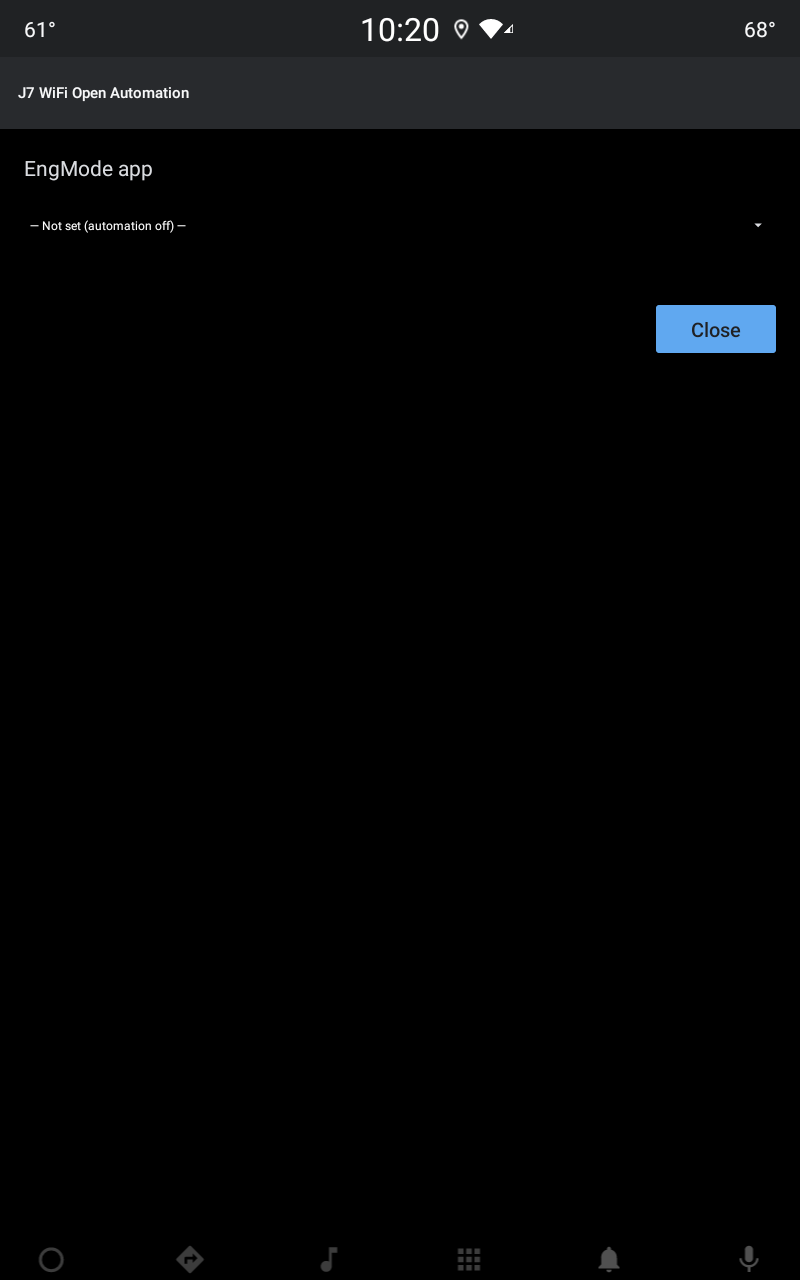
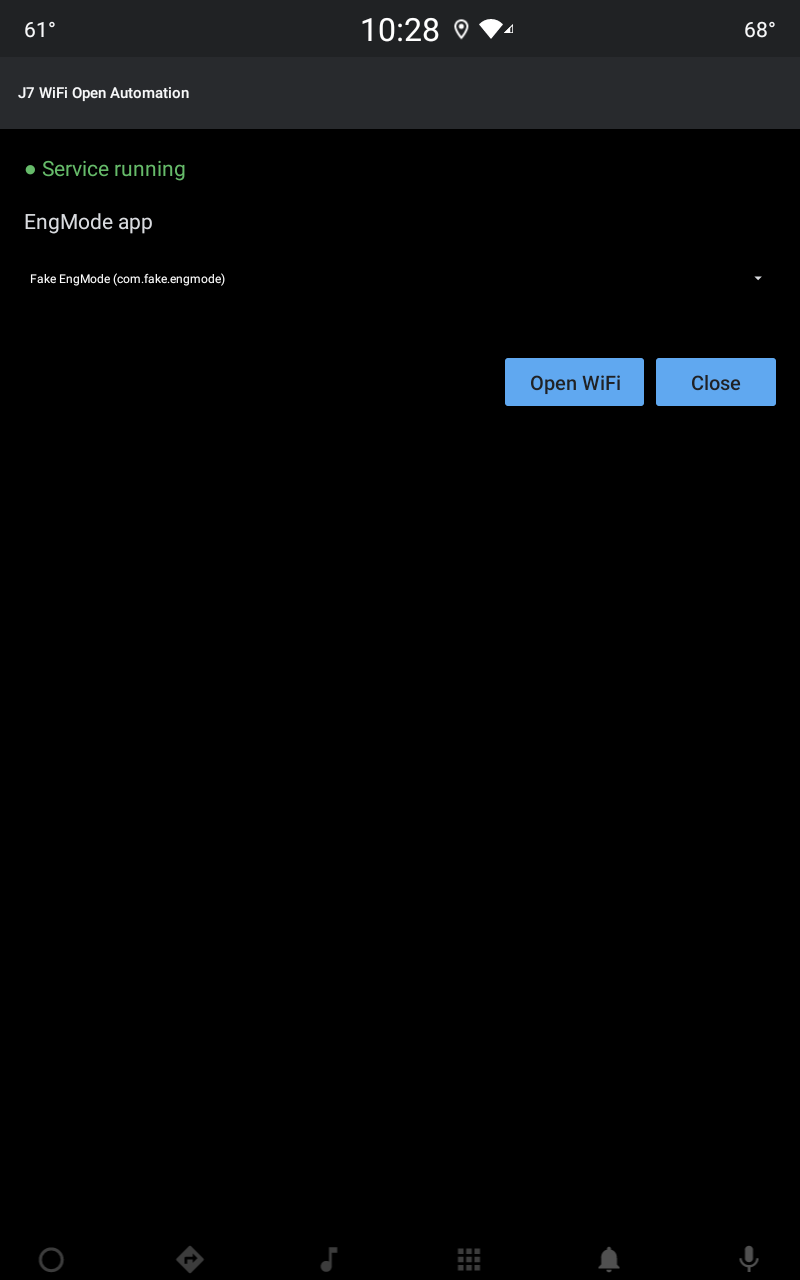
Watch AA/CarPlay packages, add test and service controls
- Trigger on com.google.android.projection.sink and
  com.desaysv.vehicle.carplayapp directly, at most once per 10 minutes.
- Open EngMode even without a launcher icon (first openable activity),
  and report launch failures and timeouts as toasts instead of crashing.
- Settings page: service status, Start service (re-enables the service,
  including after a force-stop, once WRITE_SECURE_SETTINGS is granted),
  and an Open WiFi button that runs the automation visibly.

Changed region(s): [[0.625, 0.2188, 0.9688, 0.3438], [0.0312, 0.125, 0.25, 0.1875], [0.5312, 0.0, 0.5625, 0.0312]]

diff --git a/app/src/main/java/com/carlosrpg/wifiopen/WifiOpenService.kt b/app/src/main/java/com/carlosrpg/wifiopen/WifiOpenService.kt
@@ -2,6 +2,7 @@ package com.carlosrpg.wifiopen
 
 import android.accessibilityservice.AccessibilityService
 import android.content.Intent
+import android.content.pm.PackageManager
 import android.graphics.Color
 import android.graphics.PixelFormat
 import android.os.Handler
@@ -13,6 +14,7 @@ import android.view.View
 import android.view.WindowManager
 import android.widget.LinearLayout
 import android.widget.TextView
+import android.widget.Toast
 import android.view.accessibility.AccessibilityEvent
 import android.view.accessibility.AccessibilityNodeInfo
 
@@ -35,6 +37,11 @@ class WifiOpenService : AccessibilityService() {
 
         /** Cover the screen while EngMode is driven. ACTION_CLICK works on views under an overlay. */
         private const val HIDE_WITH_OVERLAY = true
+
+        /** The running service, for SettingsActivity's test button. Null when the service is not enabled. */
+        @Volatile
+        var instance: WifiOpenService? = null
+            private set
     }
 
     private enum class Step { IDLE, CLICK_WIFI, CLICK_OPEN, CLOSE }
@@ -59,28 +66,44 @@ class WifiOpenService : AccessibilityService() {
             Log.w(TAG, "Projection app in front but EngMode is not set: open the app to pick it")
             return
         }
-        if (trigger.onProjectionWindow(SystemClock.elapsedRealtime())) start(engMode)
+        if (trigger.onProjectionWindow(SystemClock.elapsedRealtime())) start(engMode, hidden = HIDE_WITH_OVERLAY)
+    }
+
+    override fun onServiceConnected() {
+        instance = this
     }
 
     override fun onInterrupt() {}
 
     override fun onDestroy() {
+        instance = null
         handler.removeCallbacksAndMessages(null)
         hideOverlay()
         super.onDestroy()
     }
 
-    private fun start(engMode: String) {
-        val launch = packageManager.getLaunchIntentForPackage(engMode)
-        if (launch == null) {
-            Log.e(TAG, "EngMode ($engMode) not installed or has no launcher activity")
-            return
+    /** Test button in SettingsActivity: runs immediately, ignores the cooldown, and leaves EngMode visible. */
+    fun runNow() {
+        val engMode = getSharedPreferences(PREFS, MODE_PRIVATE).getString(KEY_ENGMODE, null)
+        when {
+            engMode == null -> fail("Pick the EngMode app first")
+            step != Step.IDLE -> fail("Automation is already running")
+            else -> start(engMode, hidden = false)
         }
+    }
+
+    private fun start(engMode: String, hidden: Boolean) {
+        val launch = launchIntentFor(engMode) ?: return fail("No activity of $engMode can be opened by other apps")
+        Log.i(TAG, "Running EngMode WiFi automation with ${launch.component}")
         engModePkg = engMode
-        Log.i(TAG, "Projection connected, running EngMode WiFi automation")
-        showOverlay()
-        // CLEAR_TASK so EngMode always starts on its main screen.
-        startActivity(launch.addFlags(Intent.FLAG_ACTIVITY_NEW_TASK or Intent.FLAG_ACTIVITY_CLEAR_TASK))
+        if (hidden) showOverlay()
+        try {
+            // CLEAR_TASK so EngMode always starts on its main screen.
+            startActivity(launch.addFlags(Intent.FLAG_ACTIVITY_NEW_TASK or Intent.FLAG_ACTIVITY_CLEAR_TASK))
+        } catch (e: Exception) { // SecurityException (protected activity) or ActivityNotFoundException
+            hideOverlay()
+            return fail("Android refused to open ${launch.component?.className}: ${e.message}")
+        }
         step = Step.CLICK_WIFI
         deadline = SystemClock.uptimeMillis() + TIMEOUT_MS
         closeAttempts = 0
@@ -89,7 +112,7 @@ class WifiOpenService : AccessibilityService() {
 
     private fun tick() {
         if (step != Step.CLOSE && SystemClock.uptimeMillis() > deadline) {
-            Log.w(TAG, "Timed out at $step")
+            fail(if (engModeRoot() == null) "EngMode never appeared on screen" else "Timed out at $step: button not found")
             step = Step.CLOSE
         }
         val root = engModeRoot()
@@ -110,6 +133,23 @@ class WifiOpenService : AccessibilityService() {
             }
         }
         handler.postDelayed(::tick, POLL_MS)
+    }
+
+    /** Launcher intent, or for hidden engineering apps (no launcher icon) their first openable activity. */
+    private fun launchIntentFor(pkg: String): Intent? {
+        packageManager.getLaunchIntentForPackage(pkg)?.let { return it }
+        val activities = try {
+            packageManager.getPackageInfo(pkg, PackageManager.GET_ACTIVITIES).activities
+        } catch (e: PackageManager.NameNotFoundException) {
+            null
+        }
+        val activity = activities?.firstOrNull { it.exported && it.enabled && it.permission == null } ?: return null
+        return Intent().setClassName(pkg, activity.name)
+    }
+
+    private fun fail(message: String) {
+        Log.e(TAG, message)
+        Toast.makeText(this, message, Toast.LENGTH_LONG).show()
     }
 
     private fun engModeRoot(): AccessibilityNodeInfo? =

diff --git a/app/src/main/java/com/carlosrpg/wifiopen/SettingsActivity.kt b/app/src/main/java/com/carlosrpg/wifiopen/SettingsActivity.kt
@@ -1,14 +1,25 @@
 package com.carlosrpg.wifiopen
 
+import android.Manifest
 import android.app.Activity
+import android.content.ComponentName
+import android.content.pm.PackageManager
+import android.graphics.Color
 import android.os.Bundle
+import android.os.Handler
+import android.os.Looper
+import android.provider.Settings
 import android.view.View
 import android.widget.AdapterView
 import android.widget.ArrayAdapter
 import android.widget.Spinner
+import android.widget.TextView
+import android.widget.Toast
 
-/** Lets the user pick the EngMode package from the installed apps. */
+/** Service status / start, EngMode package picker, and a manual test run. */
 class SettingsActivity : Activity() {
+
+    private val handler = Handler(Looper.getMainLooper())
 
     private class App(val pkg: String?, val label: String) {
         override fun toString() = label
@@ -25,7 +36,55 @@ class SettingsActivity : Activity() {
 
         bind(findViewById(R.id.engmode), WifiOpenService.KEY_ENGMODE, apps, "engmode")
         findViewById<View>(R.id.close).setOnClickListener { finish() }
+        findViewById<View>(R.id.open_wifi).setOnClickListener {
+            WifiOpenService.instance?.runNow() ?: toast(R.string.service_not_running)
+        }
+        findViewById<View>(R.id.start_service).setOnClickListener { startService() }
     }
+
+    // Poll the status while visible: the service can be (un)bound by the system at any time.
+    private val statusLoop = object : Runnable {
+        override fun run() {
+            val running = WifiOpenService.instance != null
+            findViewById<TextView>(R.id.service_status).apply {
+                setText(if (running) R.string.service_running else R.string.service_stopped)
+                setTextColor(if (running) Color.rgb(0x66, 0xBB, 0x6A) else Color.rgb(0xEF, 0x53, 0x50))
+            }
+            findViewById<View>(R.id.start_service).visibility = if (running) View.GONE else View.VISIBLE
+            handler.postDelayed(this, 1_000)
+        }
+    }
+
+    override fun onResume() {
+        super.onResume()
+        statusLoop.run()
+    }
+
+    override fun onPause() {
+        handler.removeCallbacks(statusLoop)
+        super.onPause()
+    }
+
+    private fun startService() {
+        if (checkSelfPermission(Manifest.permission.WRITE_SECURE_SETTINGS) != PackageManager.PERMISSION_GRANTED) {
+            return toast(R.string.grant_needed)
+        }
+        val me = ComponentName(this, WifiOpenService::class.java)
+        val key = Settings.Secure.ENABLED_ACCESSIBILITY_SERVICES
+        val others = Settings.Secure.getString(contentResolver, key).orEmpty().split(':')
+            .filter { it.isNotBlank() && ComponentName.unflattenFromString(it) != me }
+        val without = others.joinToString(":")
+        val with = (others + me.flattenToShortString()).joinToString(":")
+        // Android 11 won't rebind a service it marked as crashed (e.g. after the app was force-stopped) until the
+        // service goes from listed to unlisted. A force-stop already unlists it, so: list, unlist, list again.
+        Settings.Secure.putInt(contentResolver, Settings.Secure.ACCESSIBILITY_ENABLED, 1)
+        Settings.Secure.putString(contentResolver, key, with)
+        handler.postDelayed({ Settings.Secure.putString(contentResolver, key, without) }, 1_000)
+        handler.postDelayed({ Settings.Secure.putString(contentResolver, key, with) }, 2_000)
+        handler.postDelayed({ if (WifiOpenService.instance == null) toast(R.string.service_start_failed) }, 5_000)
+    }
+
+    private fun toast(message: Int) = Toast.makeText(this, message, Toast.LENGTH_LONG).show()
 
     private fun bind(spinner: Spinner, key: String, apps: List<App>, hint: String) {
         val prefs = getSharedPreferences(WifiOpenService.PREFS, MODE_PRIVATE)

diff --git a/README.md b/README.md
@@ -16,7 +16,7 @@ A "Connecting WiFi…" screen covers it all, so you never see the menus.
 <p align="center">
   <img src="docs/images/overlay.png" width="300" alt="Connecting WiFi overlay with animated WiFi symbol">
   &nbsp;&nbsp;
-  <img src="docs/images/settings.png" width="300" alt="Settings page with the EngMode picker">
+  <img src="docs/images/settings.png" width="300" alt="Settings page: service status, EngMode picker, Open WiFi test button">
 </p>
 
 > [!WARNING]
@@ -51,27 +51,38 @@ sequenceDiagram
 ## Install on the car
 
 1. Download the latest `J7WifiOpen-<version>.apk` from [Releases](https://github.com/carlosrpg/J7WifiOpenAutomation/releases).
-2. Install it and enable the accessibility service over adb. Android Automotive usually has no Accessibility
-   page in Settings, and it already enables its own services, so **append** to the list instead of replacing it:
+2. Install it and let it switch its own accessibility service on. Android Automotive usually has no Accessibility
+   page in Settings, so this one-time grant is what makes the **Start service** button work:
 
    ```bash
-   adb install -r J7WifiOpen-1.0.0.apk
+   adb install -r J7WifiOpen-1.0.2.apk
    ```
    ```bash
-   adb shell settings get secure enabled_accessibility_services
-   ```
-   ```bash
-   adb shell settings put secure enabled_accessibility_services "<value from above>:com.carlosrpg.wifiopen/.WifiOpenService"
-   ```
-   ```bash
-   adb shell settings put secure accessibility_enabled 1
+   adb shell pm grant com.carlosrpg.wifiopen android.permission.WRITE_SECURE_SETTINGS
    ```
 
-3. Open **J7 WiFi Open Automation** from the app grid. It preselects the app whose name or package loosely
-   matches `engmode`. Check it, then tap **Close**. The service does nothing until EngMode is set.
+3. Open **J7 WiFi Open Automation** from the app grid and tap **Start service** until the status reads
+   **● Service running**.
+4. Pick EngMode. It preselects the app whose name or package loosely matches `engmode`; EngMode has no
+   launcher icon, which is fine, the service opens its first openable screen instead. The service does nothing
+   until EngMode is set.
+5. Tap **Open WiFi** to test. It runs the automation right away, ignores the cooldown, and leaves EngMode visible so
+   you can watch each step. Errors (EngMode can't be opened, a button wasn't found) show up as a toast.
 
-Uninstalling the app removes it from `enabled_accessibility_services`, so repeat step 2 after a reinstall
-that changes the signature.
+> [!IMPORTANT]
+> If anything **force-stops** the app (App info → Force stop, or a head-unit memory cleaner), Android switches the
+> accessibility service off and won't bring it back on its own. Open the app: the status turns red, and
+> **Start service** fixes it.
+
+Without the grant you can still enable it by hand. Keep the existing value, because Android Automotive enables
+its own services there and `put` replaces the whole list:
+
+```bash
+adb shell settings get secure enabled_accessibility_services
+```
+```bash
+adb shell settings put secure enabled_accessibility_services "<value from above>:com.carlosrpg.wifiopen/.WifiOpenService"
+```
 
 ## Tuning for your head unit
 
@@ -93,7 +104,8 @@ I J7WifiOpen: Done
 
 | Problem | Where to look |
 |---|---|
-| No `window pkg=` lines at all | The service isn't running: check `adb shell dumpsys accessibility` and step 2 |
+| Status says **Service not running** | Tap **Start service**. If it says "Run once from a computer", do the `pm grant` from step 2 |
+| No `window pkg=` lines at all | The service isn't running: same as above |
 | `window` lines, but none from the projection apps | The projection app's package differs, or it draws on another display; add what logcat shows to `PROJECTION_PKGS` |
 | `EngMode is not set` | Open the app and pick EngMode |
 | Stuck on the overlay for 15 s | EngMode's button text differs from `WIFI` / `Open`; check the `click` lines in logcat |
@@ -142,5 +154,5 @@ app/src/main/java/com/carlosrpg/wifiopen/
 ├── WifiOpenService.kt     accessibility service: detection, EngMode automation, overlay
 ├── ConnectionTrigger.kt   cooldown that stops repeat runs (unit tested)
 ├── WifiAnimationView.kt   animated WiFi symbol for the overlay
-└── SettingsActivity.kt    EngMode package picker
+└── SettingsActivity.kt    service status / start, EngMode picker, manual test run
 ```
